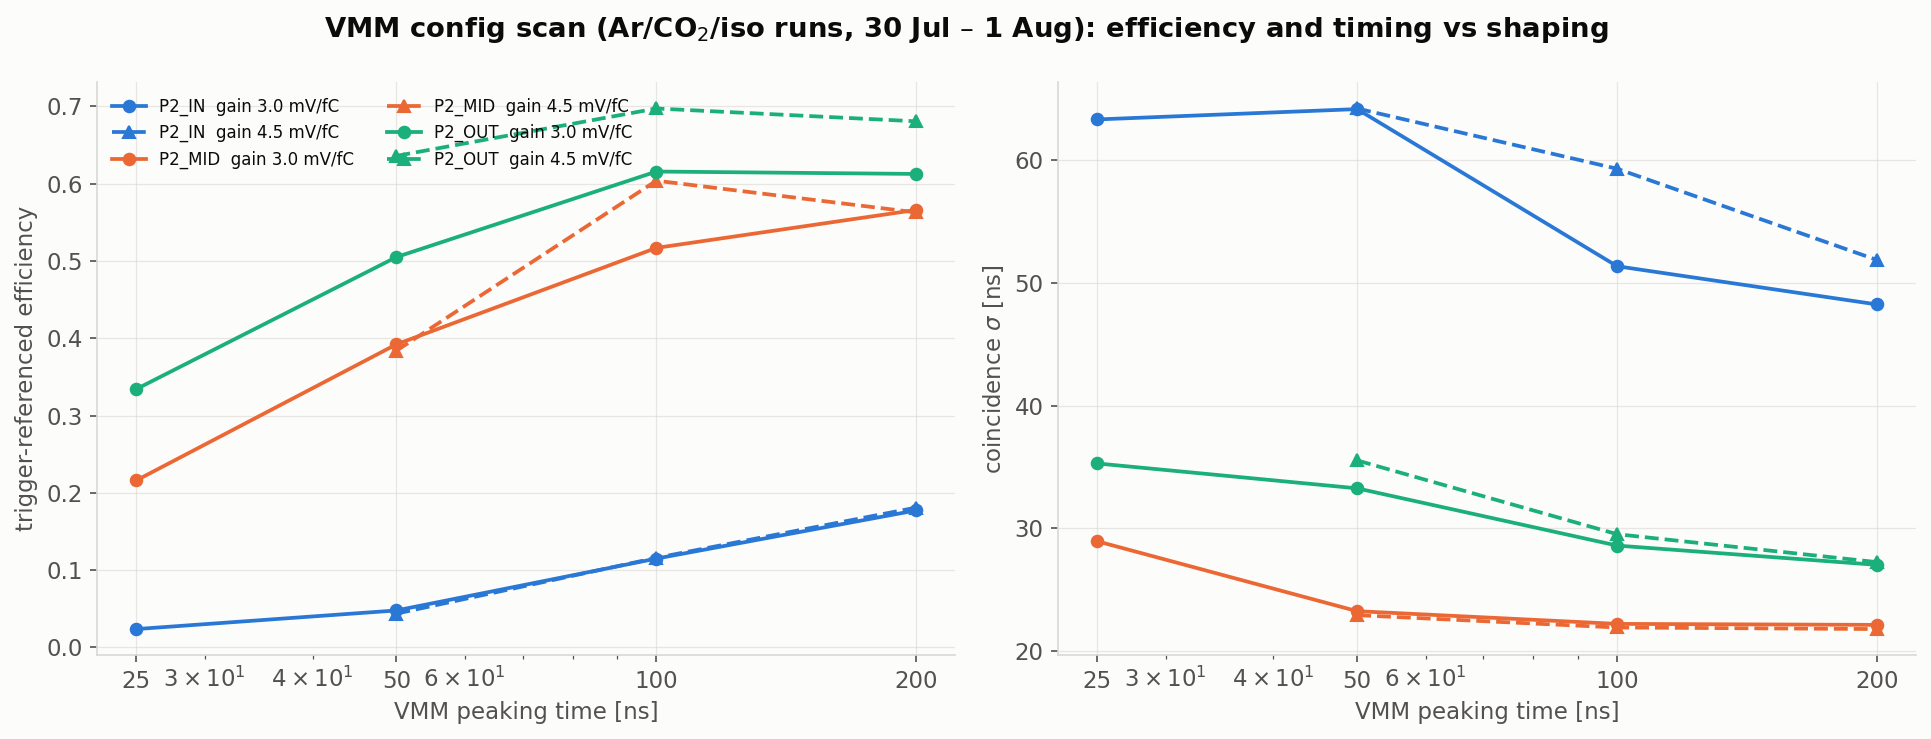
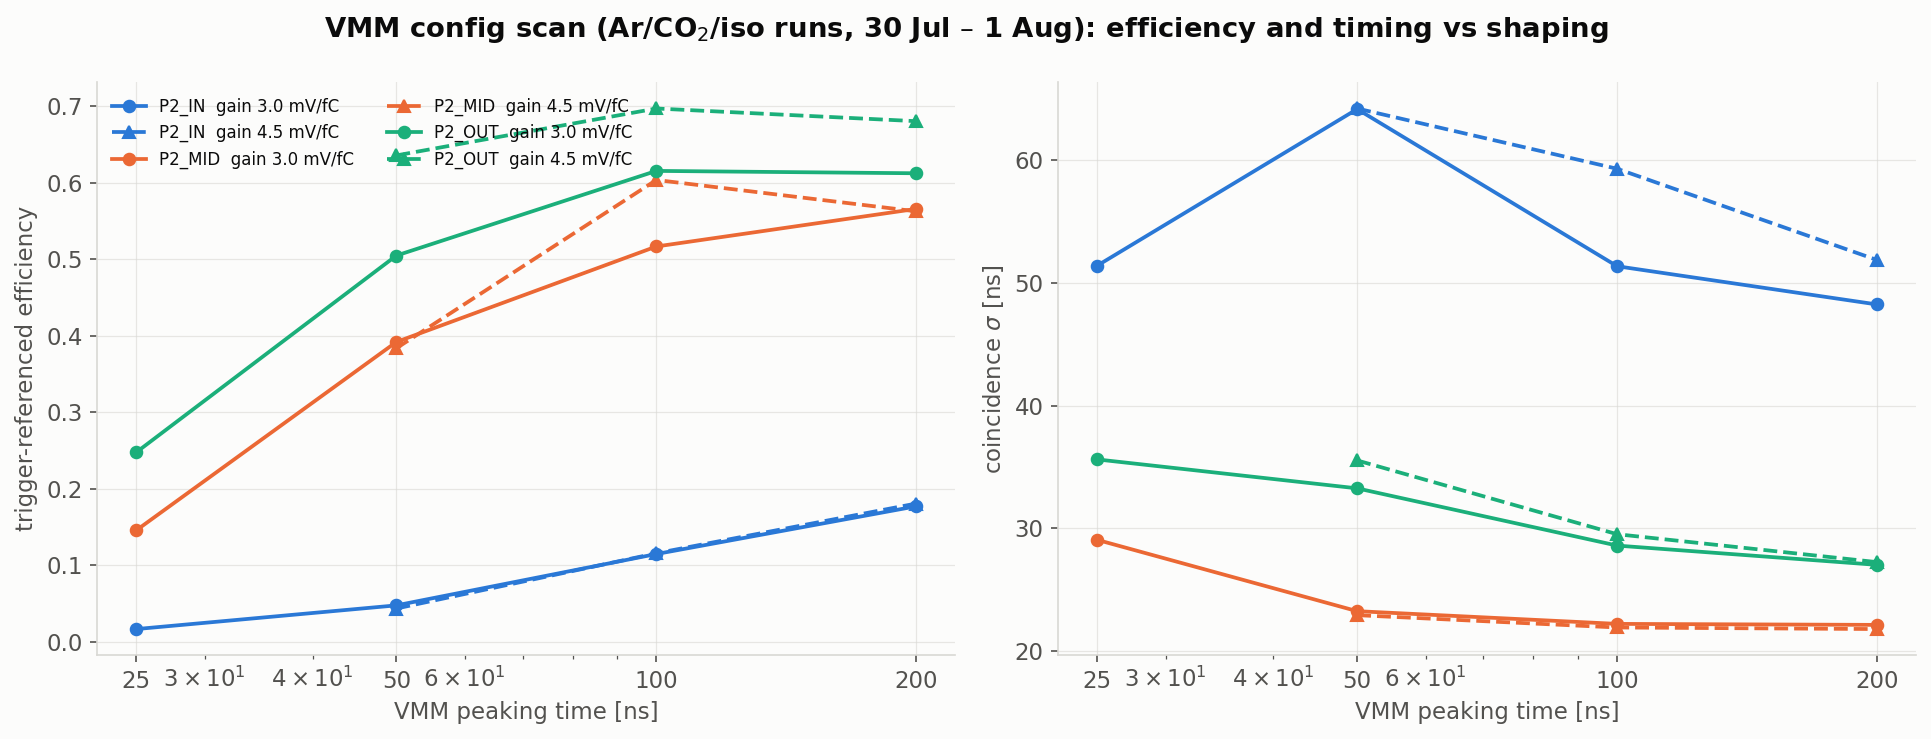
note: MPGD26 report/slides update — event display + final VMM stats

diff --git a/notes/hub-all-7c1e9a4d.html b/notes/hub-all-7c1e9a4d.html
@@ -79,7 +79,7 @@
           <p class="note-desc">Full preliminary analysis of the July–August 2026 SPS H4 beam test: efficiency, timing, stability, gas change and the VMM arm.</p>
           <div class="meta-row small">
             <span class="pill">Analysis</span><span class="pill" style="background:#fde8e8;color:#b42318">unlisted</span><span class="pill gray">micromegas</span><span class="pill gray">sps</span><span class="pill gray">mpgd26</span><span class="pill gray">efficiency</span><span class="pill gray">timing</span><span class="pill gray">beam test</span>
-            <span class="faint">unlisted/2026-08-16-mpgd26-sps-beam-report.html · 32.6 kB</span>
+            <span class="faint">unlisted/2026-08-16-mpgd26-sps-beam-report.html · 33.0 kB</span>
           </div>
         </div>
         <time class="note-date" datetime="2026-08-16">2026-08-16<span class="faint small"></span></time>
@@ -90,7 +90,7 @@
           <p class="note-desc">Options deck: candidate slides for the MPGD26 talk, one option per slide with recommendations.</p>
           <div class="meta-row small">
             <span class="pill">Talks &amp; Papers</span><span class="pill" style="background:#fde8e8;color:#b42318">unlisted</span><span class="pill gray">mpgd26</span><span class="pill gray">slides</span><span class="pill gray">talk</span><span class="pill gray">sps</span>
-            <span class="faint">unlisted/2026-08-16-mpgd26-slide-options.html · 18.0 kB</span>
+            <span class="faint">unlisted/2026-08-16-mpgd26-slide-options.html · 18.5 kB</span>
           </div>
         </div>
         <time class="note-date" datetime="2026-08-16">2026-08-16<span class="faint small"></span></time>

diff --git a/notes/unlisted/2026-08-16-mpgd26-slide-options.html b/notes/unlisted/2026-08-16-mpgd26-slide-options.html
@@ -115,6 +115,15 @@ fiducial) and a probe-radius systematic scan → ε to ±0.3 %.</p>
 to 60 % — the method catches mapping errors two independent ways.</li></ul>
 </section>
 
+<section class="slide"><span class="tag core">CORE — event display</span>
+<h2>Three muons through the P2 tracker</h2>
+<img src="mpgd26-sps-beam-report_files/event_display.png" alt="event display">
+<p class="msg"><b>Message:</b> single events on the true fan-pad layout —
+each muon fires the same pad position on all three planes; the side panel
+shows the straight track in x–z. The credibility slide: "this is a
+P2-geometry tracker, and it tracks."</p>
+</section>
+
 <section class="slide"><span class="tag core">CORE — efficiency</span>
 <h2>Efficiency vs mesh voltage (absolute)</h2>
 <img src="mpgd26-sps-beam-report_files/eff_vs_mesh_urw.png" alt="eff vs mesh">

diff --git a/notes/unlisted/2026-08-16-mpgd26-sps-beam-report.html b/notes/unlisted/2026-08-16-mpgd26-sps-beam-report.html
@@ -204,6 +204,13 @@ three stations — exactly the 12 mm/√12 binary-readout limit. Cluster size
 efficiency to 60 % — "if efficiency reads far below 90 %, suspect the
 mapping before the detector".</p>
 
+<figure>
+<img src="mpgd26-sps-beam-report_files/event_display.png" alt="3-plane event display">
+<figcaption><b>Three muons through the P2 tracker</b> (single-cluster events
+from the working-point run, hit pads on the true pad layout, right panel:
+leading-pad x vs z). The picture that makes "this is the P2 tracker"
+concrete.</figcaption></figure>
+
 <h2 id="efficiency">4. Efficiency</h2>
 <h3>4.1 Versus mesh voltage</h3>
 <figure>
